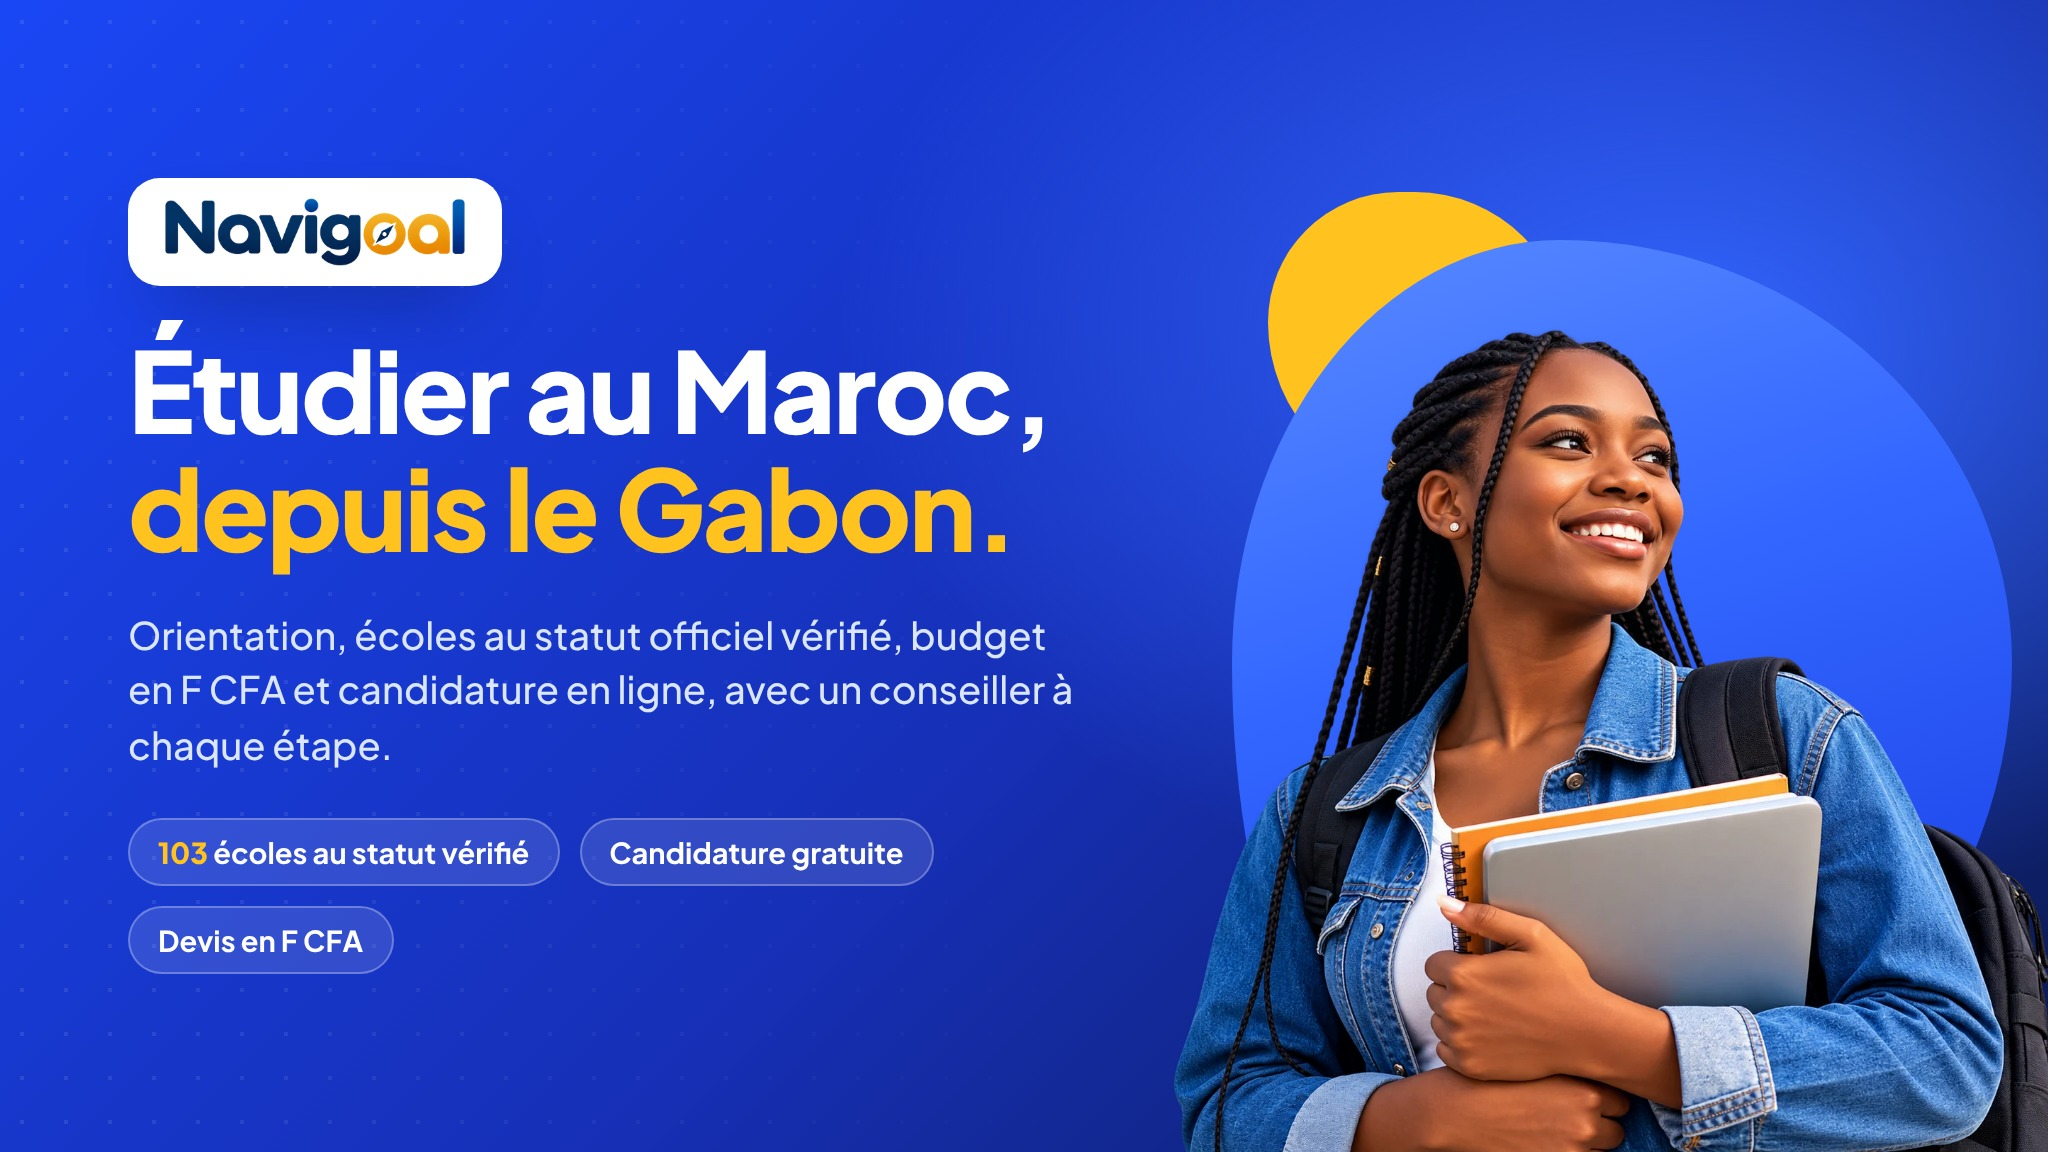
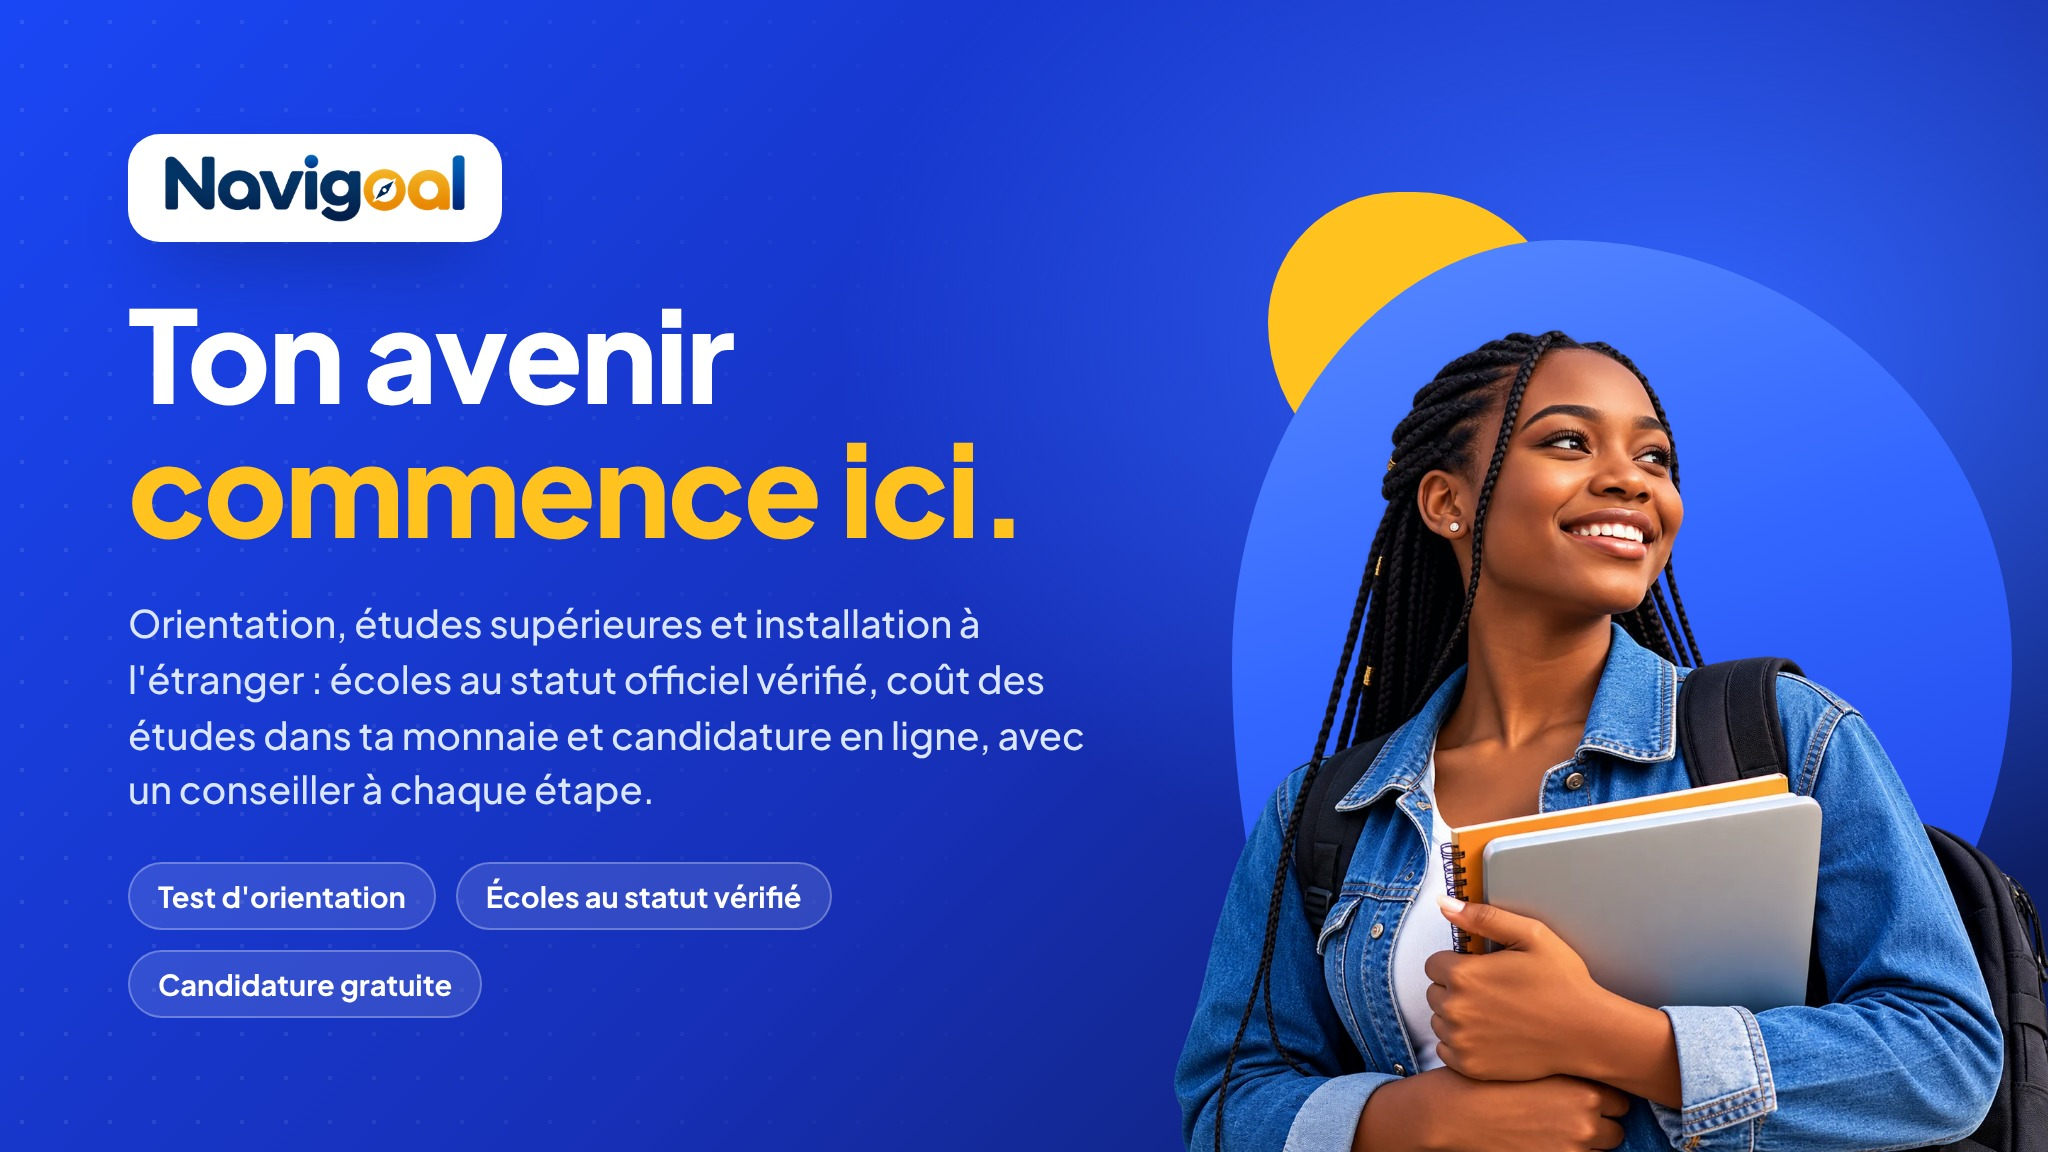
Fiche Google : couverture et description sans pays ni chiffre figé (plateforme appelée à s'étendre)
Claude-Session: https://claude.ai/code/session_019oY2duc1QUnFAVUUvCP8v1

Changed region(s): [[0.0625, 0.5312, 0.5312, 0.9062], [0.0625, 0.0938, 0.5312, 0.5]]

diff --git a/docs/fiche-google/README.md b/docs/fiche-google/README.md
@@ -26,9 +26,9 @@ Catégories secondaires (ajouter celles que Google propose, au plus proche) :
 
 ## 2. Description (750 caractères au plus)
 
-> Navigoal accompagne gratuitement les élèves, les étudiants et leurs parents qui veulent étudier au Maroc, depuis le Gabon et toute l'Afrique. Test d'orientation en images, fiches métiers et formations, et 103 écoles et universités privées au statut officiel vérifié : reconnues par l'État, diplômes homologués ou établissements autorisés. Devis complet du coût des études en F CFA (scolarité, logement, vie, visa), candidature en ligne sans frais de dossier, conseillers sur WhatsApp et Navi, notre assistant d'orientation. Avec Navilease, trouvez un logement étudiant vérifié ; avec NaviTravel, préparez billet, visa et accueil à l'arrivée. Un service d'OAPS Consulting Group, Libreville.
+> Navigoal accompagne gratuitement les élèves, les étudiants et leurs parents, de l'orientation jusqu'à l'installation dans le pays d'études. Test d'orientation en images, fiches métiers et formations, écoles et universités au statut officiel vérifié, devis complet du coût des études dans la monnaie de la famille (scolarité, logement, vie sur place, visa) et candidature en ligne sans frais de dossier. Des conseillers répondent sur WhatsApp et Navi, notre assistant d'orientation, guide chaque étape. Avec Navilease, trouvez un logement étudiant vérifié ; avec NaviTravel, préparez billet, visa et accueil à l'arrivée. De nouvelles destinations d'études s'ajoutent au fil du temps. Un service d'OAPS Consulting Group, Libreville.
 
-(Environ 690 caractères. Ne pas ajouter d'adresse web, de prix ni de promotion : Google les refuse dans la description.)
+(730 caractères. Sans pays ni chiffre figé : la plateforme s'étend à de nouvelles destinations. Ne pas ajouter d'adresse web, de prix ni de promotion : Google les refuse dans la description.)
 
 ## 3. Horaires
 
@@ -74,7 +74,7 @@ Ajouter les horaires exceptionnels (fêtes, congés) dès qu'ils sont connus : u
 | Emplacement | Fichier | Remarque |
 |---|---|---|
 | Logo | `logo-720x720.png` | carré, Google l'affiche en cercle (marges prévues) |
-| Couverture | `couverture-navigoal-2048x1152.jpg` | format 16:9, aux couleurs de Navigoal (ancienne version simple : `couverture-1024x576.jpg`) |
+| Couverture | `couverture-navigoal-2048x1152.jpg` | format 16:9, aux couleurs de Navigoal, sans pays ni chiffre figé |
 | Autres | `photo-site-accueil.jpg` | capture du site |
 
 À ajouter vous-mêmes, ce sont les photos qui comptent le plus pour Google et les familles : le bureau (extérieur et
